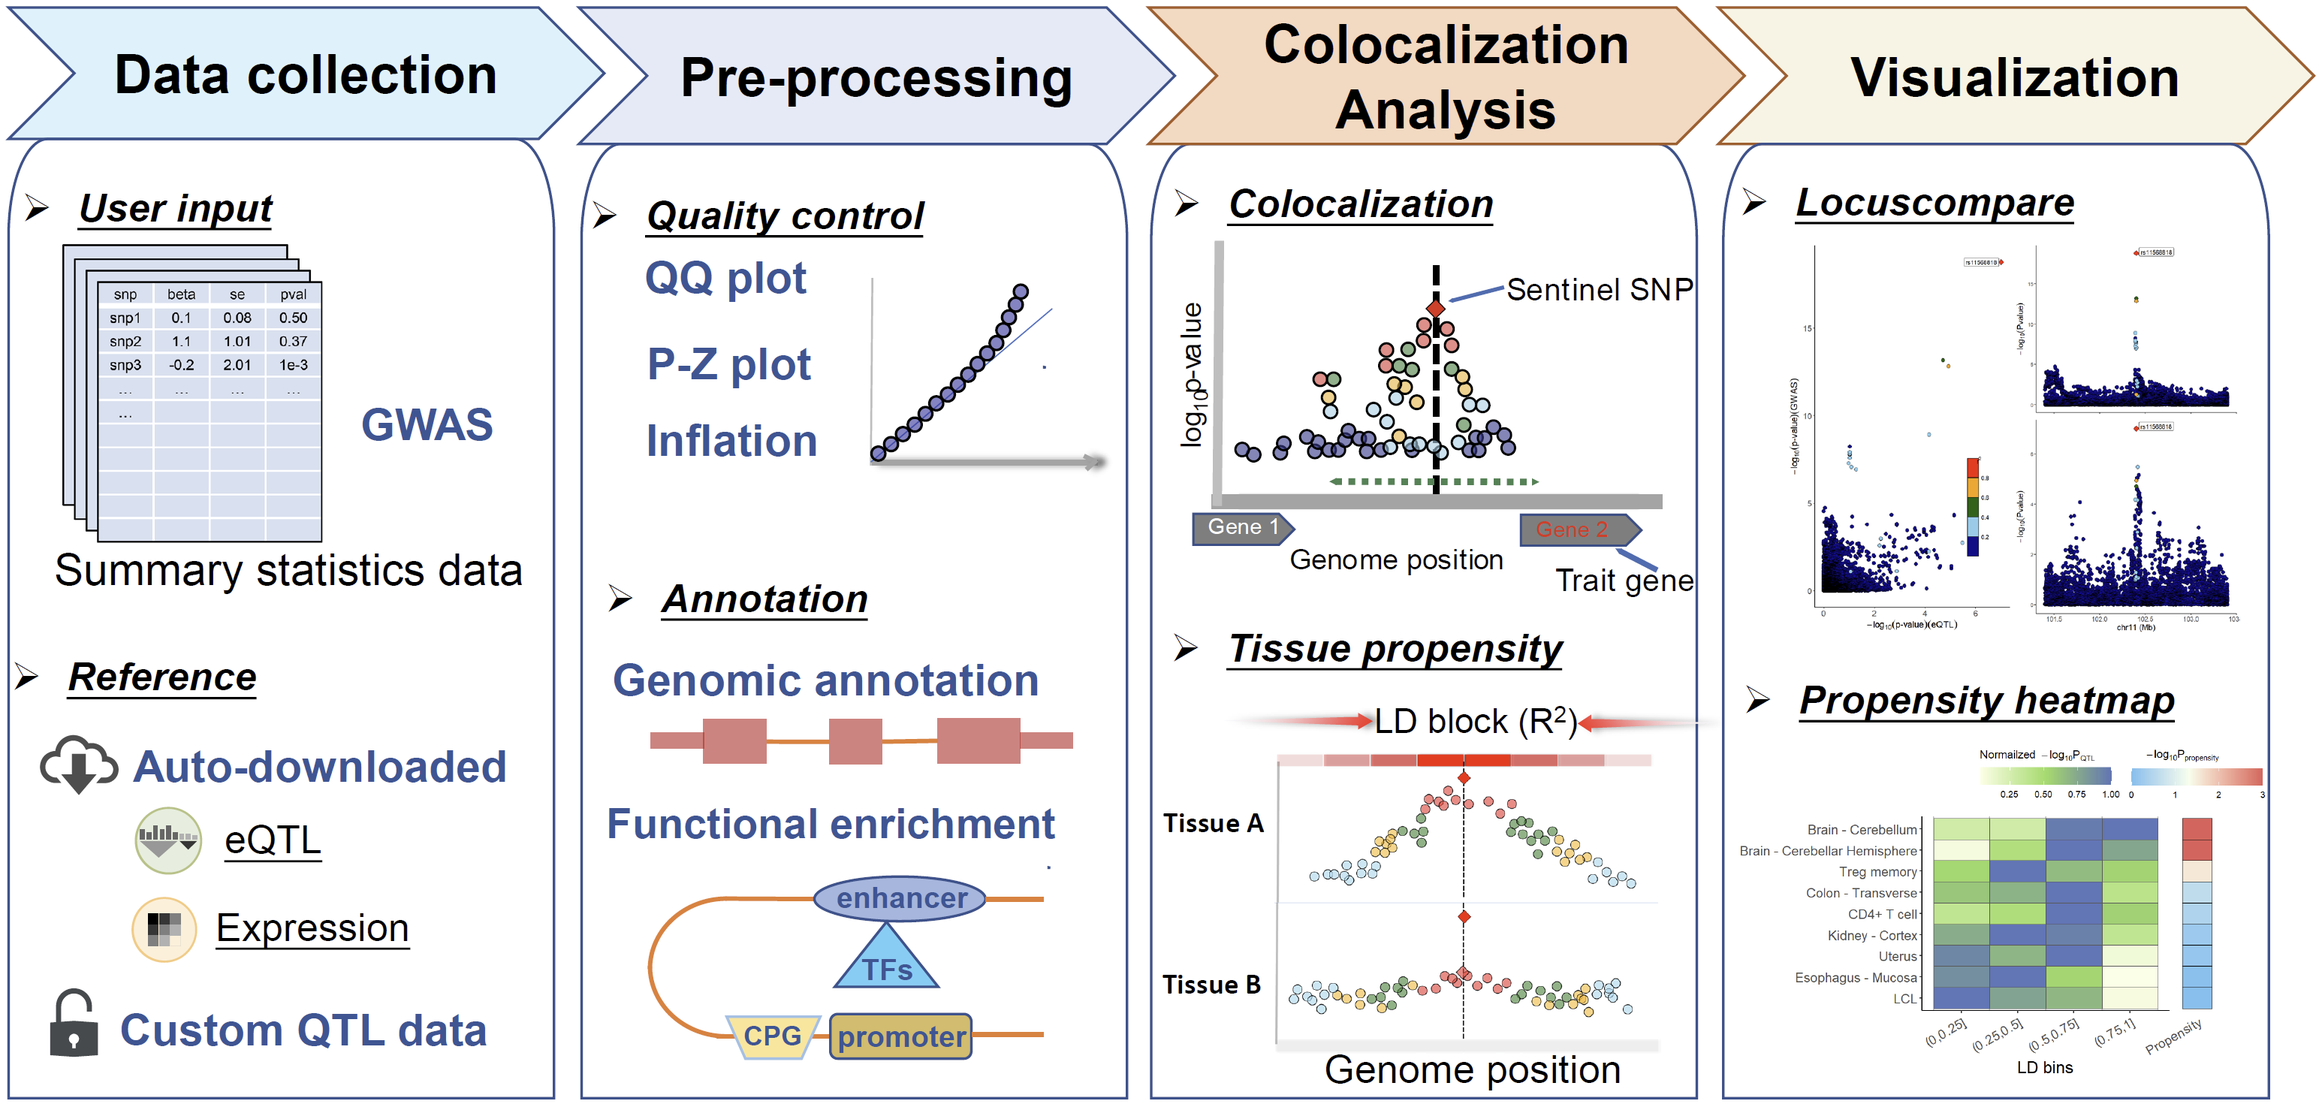
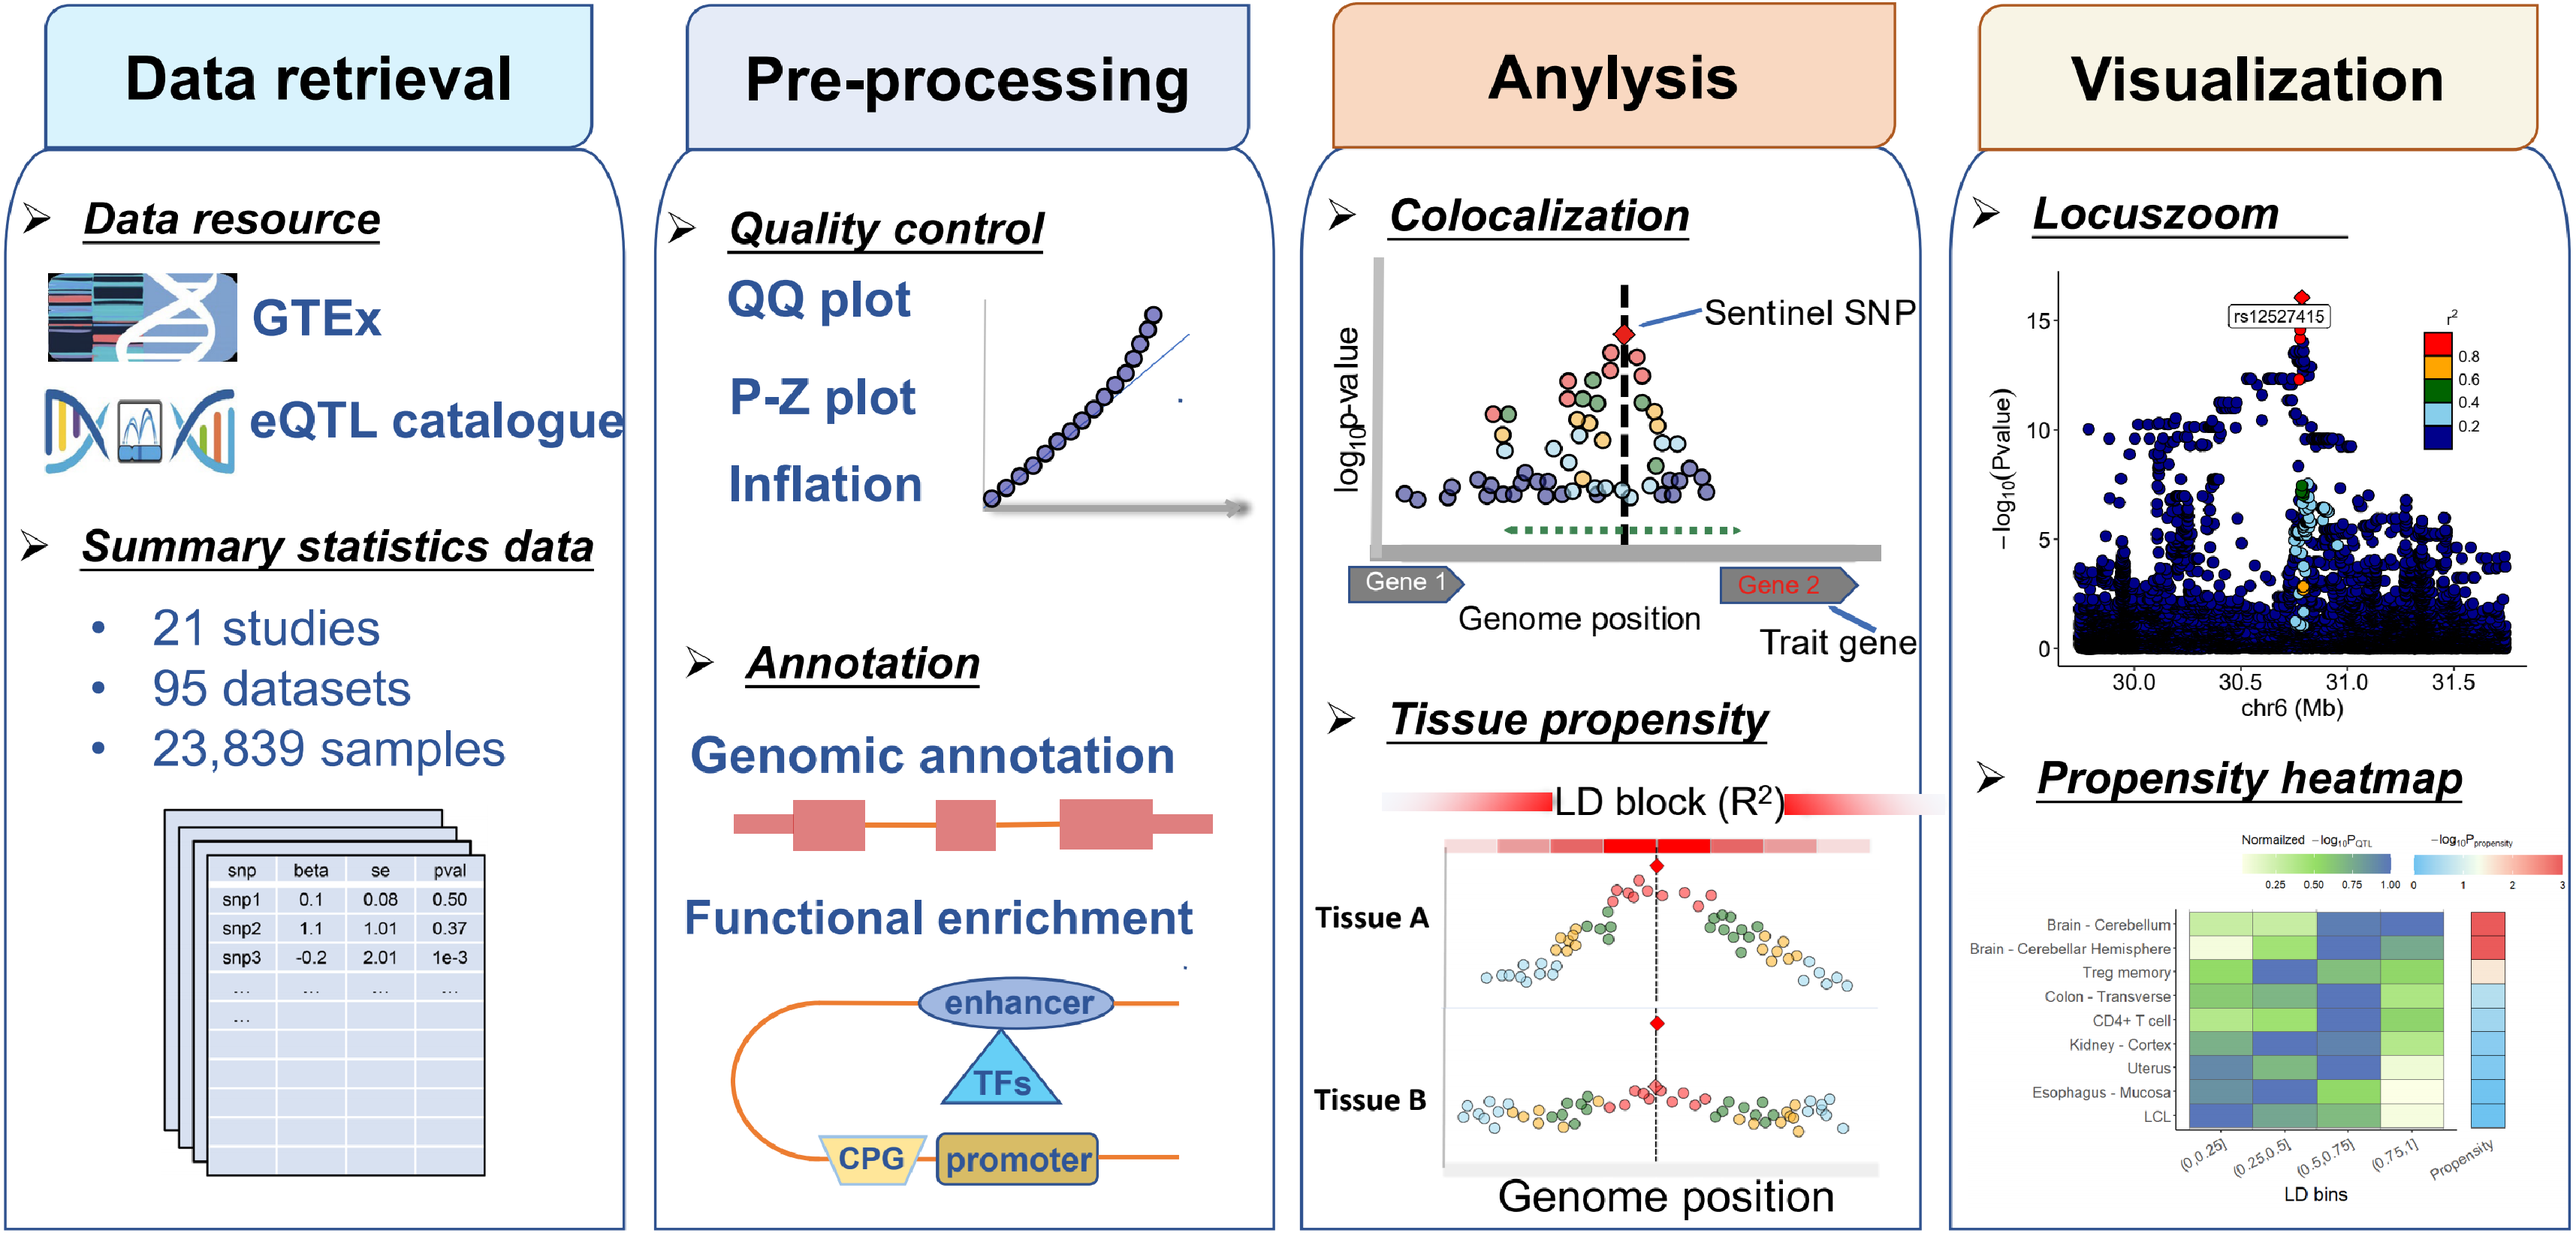
document correct

Changed region(s): [[0.0, 0.0, 1.0, 0.9986], [0.7772, 0.2497, 0.8083, 0.2809], [0.6218, 0.8114, 0.6528, 0.8426]]

diff --git a/README.md b/README.md
@@ -1,8 +1,8 @@
 ### xQTLbiolinks: An R package aims to query, download, visualize and perform colocalization analyses between xQTL data and GWAS signals
 
-**`xQTLbiolinks`** is a well-developed R package that enables users-customized query, extraction, and visualization of **molecular QTLs** (eQTLs and sQTLs) and **gene expression** data from public resources (e.g., GTEx) through the application programming interface (API) of [GTEx](https://gtexportal.org/home/api-docs/index.html) and [eQTL Catalogue](https://www.ebi.ac.uk/eqtl/api-docs/).
+**`xQTLbiolinks`** is a well-developed R package that enables users-customized data retrieval, pre-processing, analysis, and data visualization of **molecular QTLs** (eQTLs and sQTLs) and **gene expression** data from public resources (e.g., GTEx) through the application programming interface (API) of [GTEx](https://gtexportal.org/home/api-docs/index.html) and [eQTL Catalogue](https://www.ebi.ac.uk/eqtl/api-docs/).
 
-xQTLbiolinks consists of tailored functions that can be grouped into four modules: **Query**, **Download**, **Analyze** and **Visualization**.
+xQTLbiolinks consists of tailored functions that can be grouped into four modules: **Data retrieval**, **Pre-processing**, **Analysis** and **Visualization**.
 
 Instructions, documentation, and tutorials can be found at [**here**](https://dingruofan.github.io/xQTLbiolinks/index.html).
 
@@ -10,7 +10,7 @@ Instructions, documentation, and tutorials can be found at [**here**](https://di
 
 ### Quick Start
 
-1.  `xQTLbiolinks` has been successfully installed on Mac OS X, Linux, and Windows, using the `install.package` function to install directly from CRAN with command `install.package("xQTLbiolinks")`. Check more details in section "Installation" below.
+1.  `xQTLbiolinks` has been successfully installed on Mac OS X, Linux, and Windows, using the `install.package` function to install directly from CRAN with command `install.package("xQTLbiolinks")`. We recommend installing the latest version from GitHub (`remotes::install_github("dingruofan/xQTLbiolinks")`) to access more advanced software features. Check more details in section "Installation" below.
 2.  Find the [**Full document**](https://dingruofan.github.io/xQTLbiolinks/articles/Quick_start.html) for a quick application of colocalization analysis with xQTLbiolinks.
 3.  Go through a whole [**Case study**](https://dingruofan.github.io/xQTLbiolinks/articles/Colocalization_analysis_with_xQTLbiolinks.html) of detection of casual vairants and genes in prostate cancer using `xQTLbiolinks`.
 4.  Then walk through these vignettes to learn more about xQTLbiolinks: [**Function Instruction**](https://dingruofan.github.io/xQTLbiolinks/reference/index.html) and [**Visualization of expression and xQTL**](https://dingruofan.github.io/xQTLbiolinks/articles/visualization.html).
@@ -19,7 +19,7 @@ Instructions, documentation, and tutorials can be found at [**here**](https://di
 
 If you find the xQTLbiolinks package or any of the source code in this repository useful for your work, please cite:
 
-> Ruofan Ding, Xudong Zou, Yangmei Qin, Gao Wang, Lei Li. **xQTLbiolinks: an R package for integrative analysis of xQTL data.** (submitted)
+> Ruofan Ding, Xudong Zou, Yangmei Qin, Xuelian Ma, Gao Wang, Lei Li. **xQTLbiolinks: a comprehensive and scalable tool for integrative analysis of molecular QTLs.** (submitted)
 
 Institute of Systems and Physical Biology, Shenzhen Bay Laboratory, Shenzhen 518055, China
 
@@ -43,7 +43,7 @@ BiocManager::install("SummarizedExperiment")
 # This command should automatically install any missing dependencies that are available from CRAN
 install.packages("xQTLbiolinks")
 
-# Or install from github.
+# Or install from github to get the latest version.
 if(!require("remotes")){install.packages("remotes")}
 remotes::install_github("dingruofan/xQTLbiolinks")
 ```
